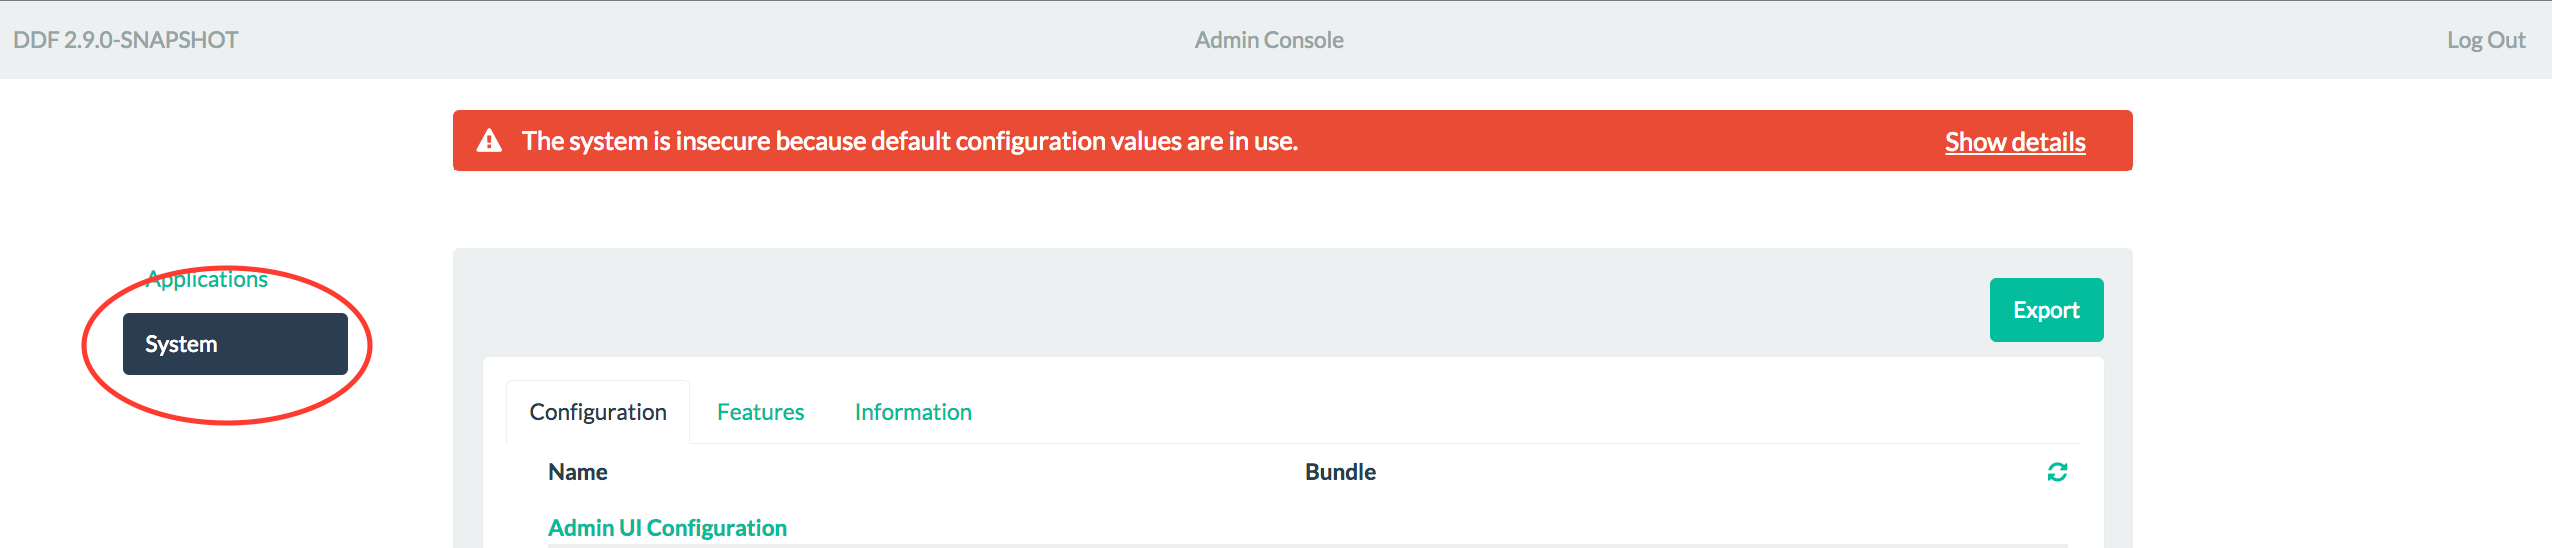
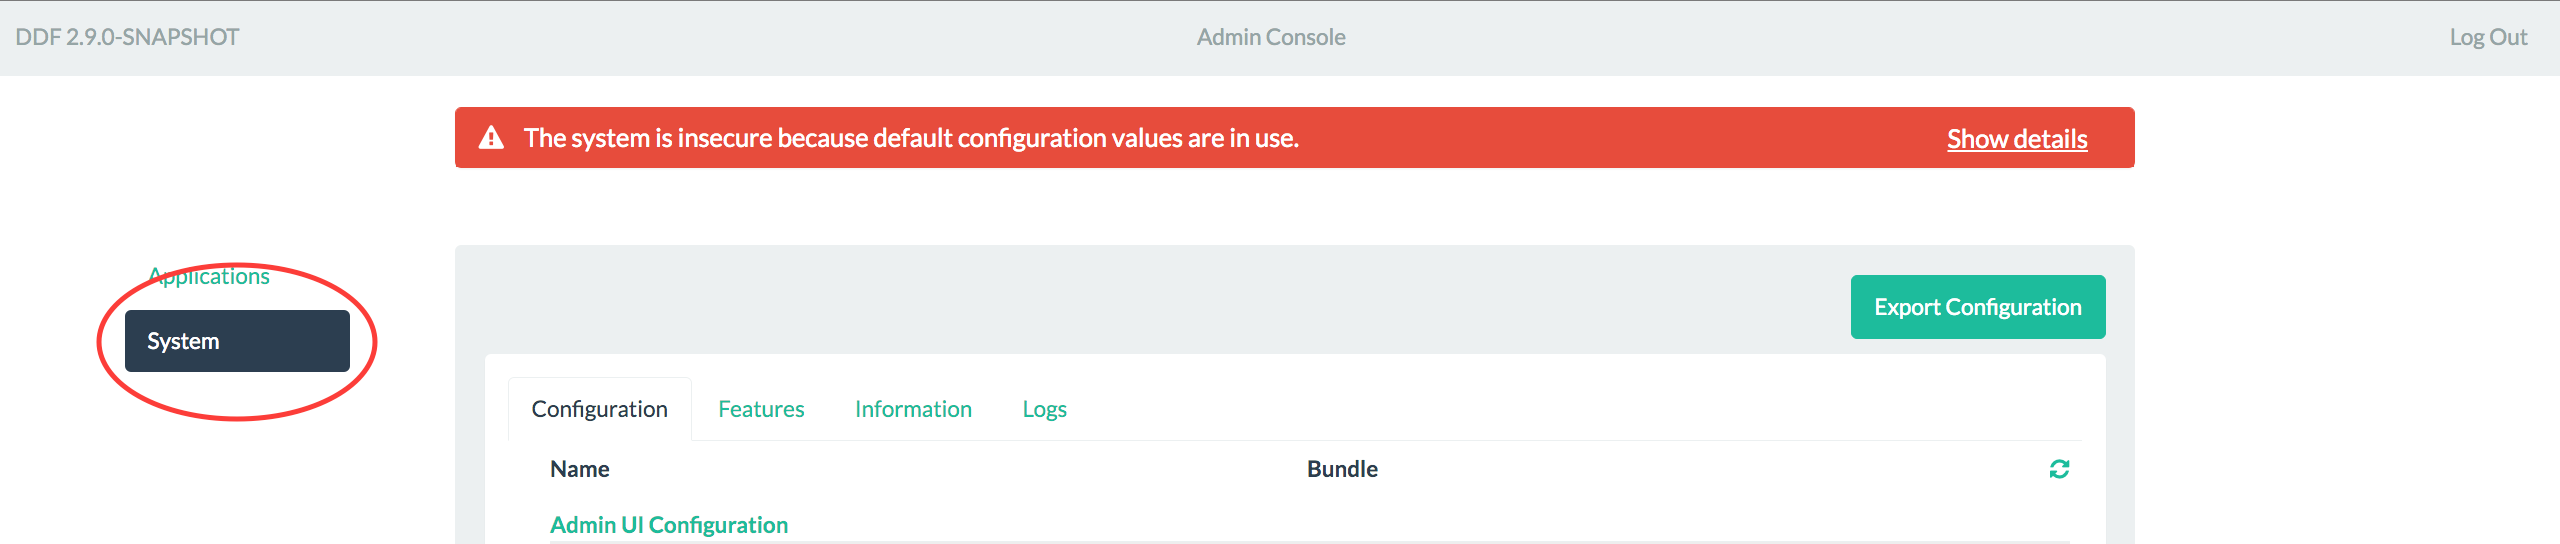
DDF-2027: Small Logviewer Improvements
- Reordered log level filters to match karaf levels
 - Added a link to open the viewer in a new tab
 - Renamed export button to be less ambiguous
 - Updated Export documentation and screenshots

  We did not move the export button under the configuration
tab because the code used to generate that tab is reused
in many other pages in the ui, and allowing for this specific
tab to display an export button would result in a massive amount
of code rewriting for very little value. Since the problem we were
trying to solve was the button's ambiguity, we decided that
the best thing to do was to relabel it to say "Export System
Configurations" to solve that issue.

diff --git a/platform/admin/core/admin-core-logviewer/src/main/webapp/js/components/log-panel/log-panel.js b/platform/admin/core/admin-core-logviewer/src/main/webapp/js/components/log-panel/log-panel.js
@@ -16,14 +16,35 @@
 import React from 'react'
 import LogViewer from '../log-viewer/log-viewer'
 
+const panelClass = () => {
+  if (window === window.top) {
+    return 'panel'
+  } else {
+    return 'panel-iframe'
+  }
+}
+
+const iframeNewTab = () => {
+  if (window !== window.top) {
+    return (
+      <a href='/admin/logviewer/index.html' target='_blank' className='newTabLink'>
+        Open Viewer in New Tab
+      </a>
+    )
+  }
+}
+
 export default ({ state, dispatch }) => {
   return (
-    <div className='panel'>
-      <LogViewer
-        filter={state.filter}
-        logs={state.logs}
-        displaySize={state.displaySize}
-        dispatch={dispatch} />
+    <div>
+      {iframeNewTab()}
+      <div className={panelClass()}>
+        <LogViewer
+          filter={state.filter}
+          logs={state.logs}
+          displaySize={state.displaySize}
+          dispatch={dispatch} />
+      </div>
     </div>
   )
 }

diff --git a/platform/admin/core/admin-core-logviewer/src/main/webapp/js/components/log-panel/log-panel.less b/platform/admin/core/admin-core-logviewer/src/main/webapp/js/components/log-panel/log-panel.less
@@ -1,9 +1,26 @@
+@btnGreen: #18bc9c;
+
+.panel-base(@top) {
+  position: fixed;
+  top: @top;
+  left: 0px;
+  right: 0px;
+  bottom: 0px;
+  font-family: sans-serif;
+  font-size: 14px;
+}
+
 .panel {
-    position: fixed;
-    top: 0px;
-    left: 0px;
-    right: 0px;
-    bottom: 0px;
-    font-family: sans-serif;
-    font-size: 14px;
+  .panel-base(0px);
+}
+
+.panel-iframe {
+  .panel-base(20px);
+}
+
+.newTabLink {
+  color: @btnGreen;
+  text-align: right;
+  float: right;
+  font-family: sans-serif;
 }

diff --git a/platform/admin/core/admin-core-logviewer/src/main/webapp/js/levels.js b/platform/admin/core/admin-core-logviewer/src/main/webapp/js/levels.js
@@ -17,10 +17,11 @@ import color from 'color'
 
 const levels = {
   ERROR: 'red',
-  INFO: 'white',
   WARN: 'yellow',
+  INFO: 'white',
+  DEBUG: '#0f0',
   TRACE: 'blue',
-  DEBUG: '#0f0'
+  ALL: undefined
 }
 
 // log level colors
@@ -29,5 +30,5 @@ export default (level) => {
     return color(levels[level]).lighten(0.9).hslString()
   }
 
-  return ['ALL'].concat(Object.keys(levels))
+  return Object.keys(levels)
 }

diff --git a/platform/admin/core/admin-core-logviewer/src/main/webapp/js/components/log-viewer/log-viewer.less b/platform/admin/core/admin-core-logviewer/src/main/webapp/js/components/log-viewer/log-viewer.less
@@ -1,6 +1,7 @@
 @border: #ccc;
 @fg: #2c3e50;
 @bg: #fff;
+@grey: #ecf0f1;
 
 .container {
   position: relative;
@@ -32,7 +33,7 @@
 
 .header {
   color: @fg;
-  background: #ecf0f1;
+  background: @grey;
   padding: 2px;
 }
 
